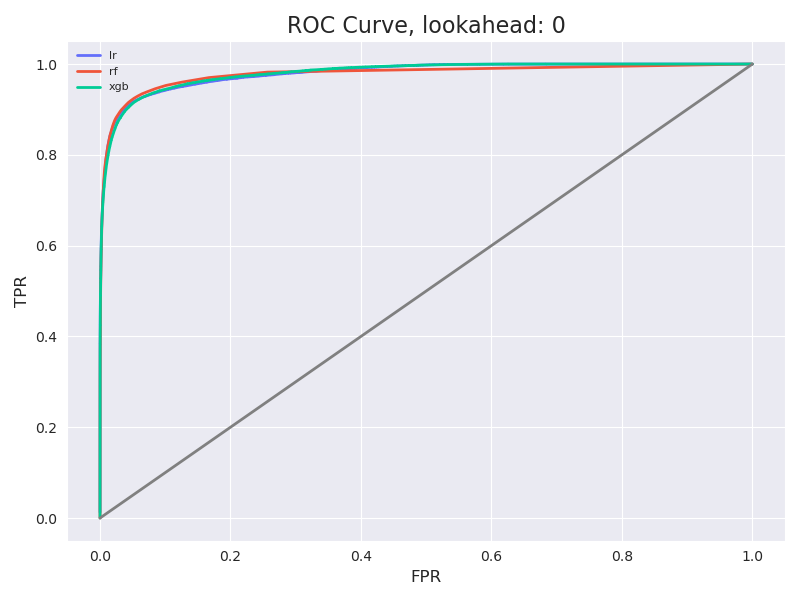
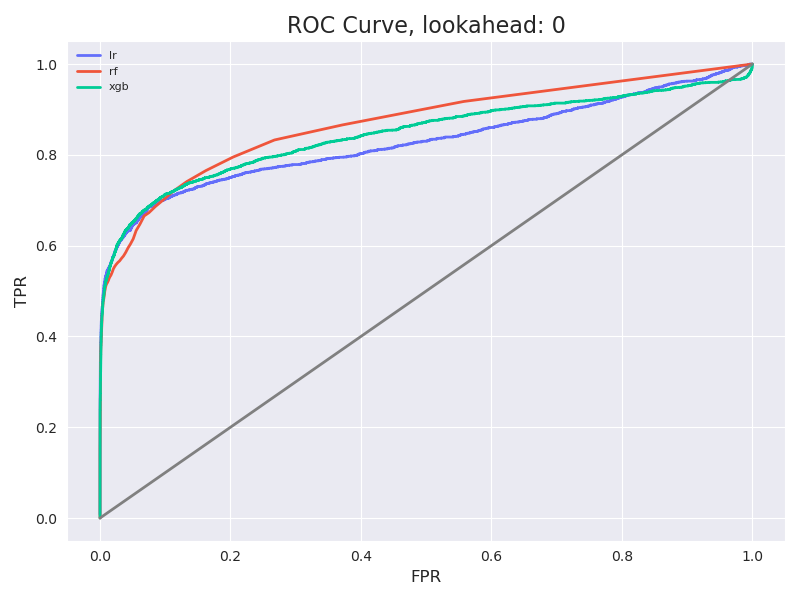
Run classical ml models on the output of feature extractor.

Changed region(s): [[0.125, 0.09, 0.9375, 0.54]]

diff --git a/src/classical_ml.py b/src/classical_ml.py
@@ -27,14 +27,12 @@ if __name__ == "__main__":
     path = f"outputs/signal_window_16/label_look_ahead_{lookahead}/roc"
     plot_path = f"outputs/signal_window_16/label_look_ahead_{lookahead}/plots"
     # df = pd.read_csv(os.path.join(path, f"train_features_df_{lookahead}.csv"))
-    df = pd.read_csv(
-        os.path.join(path, f"cnn_features_automatic_labels_df_{lookahead}.csv")
-    )
+    df = pd.read_csv(os.path.join(path, f"cnn_feature_df_{lookahead}.csv"))
     print(df)
     print(df["label"].value_counts())
 
-    train_df = df[df.loc[:, "elm_id"] < 300]
-    valid_df = df[df.loc[:, "elm_id"] >= 300]
+    train_df = df[df.loc[:, "elm_id"] < 380]
+    valid_df = df[df.loc[:, "elm_id"] >= 380]
     print(train_df)
     print(valid_df)
     features = [

diff --git a/feature_extractor.py b/feature_extractor.py
@@ -54,7 +54,7 @@ if __name__ == "__main__":
     LOGGER = utils.get_logger(script_name=__name__)
     model_cls = utils.create_model(args.model_name)
     model = model_cls(args)
-    device = torch.device("cuda" if torch.cuda.is_available() else "cpu")
+    device = torch.device("cpu")
     model = model.to(device)
     print(model)
 
